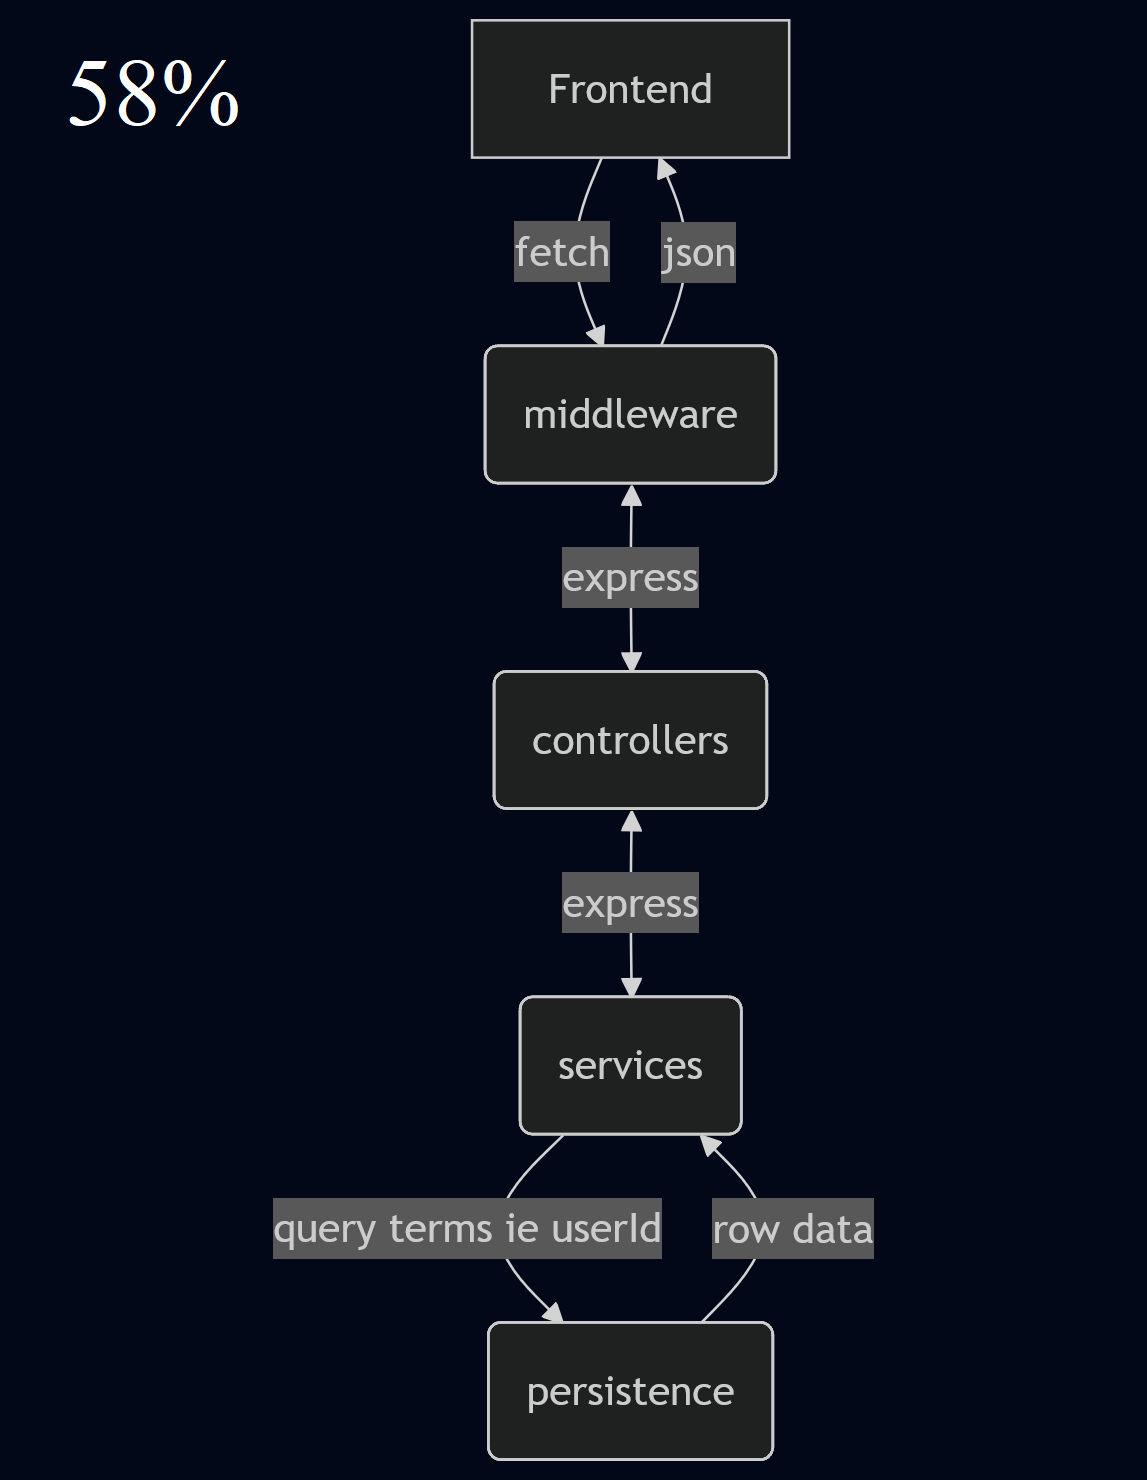
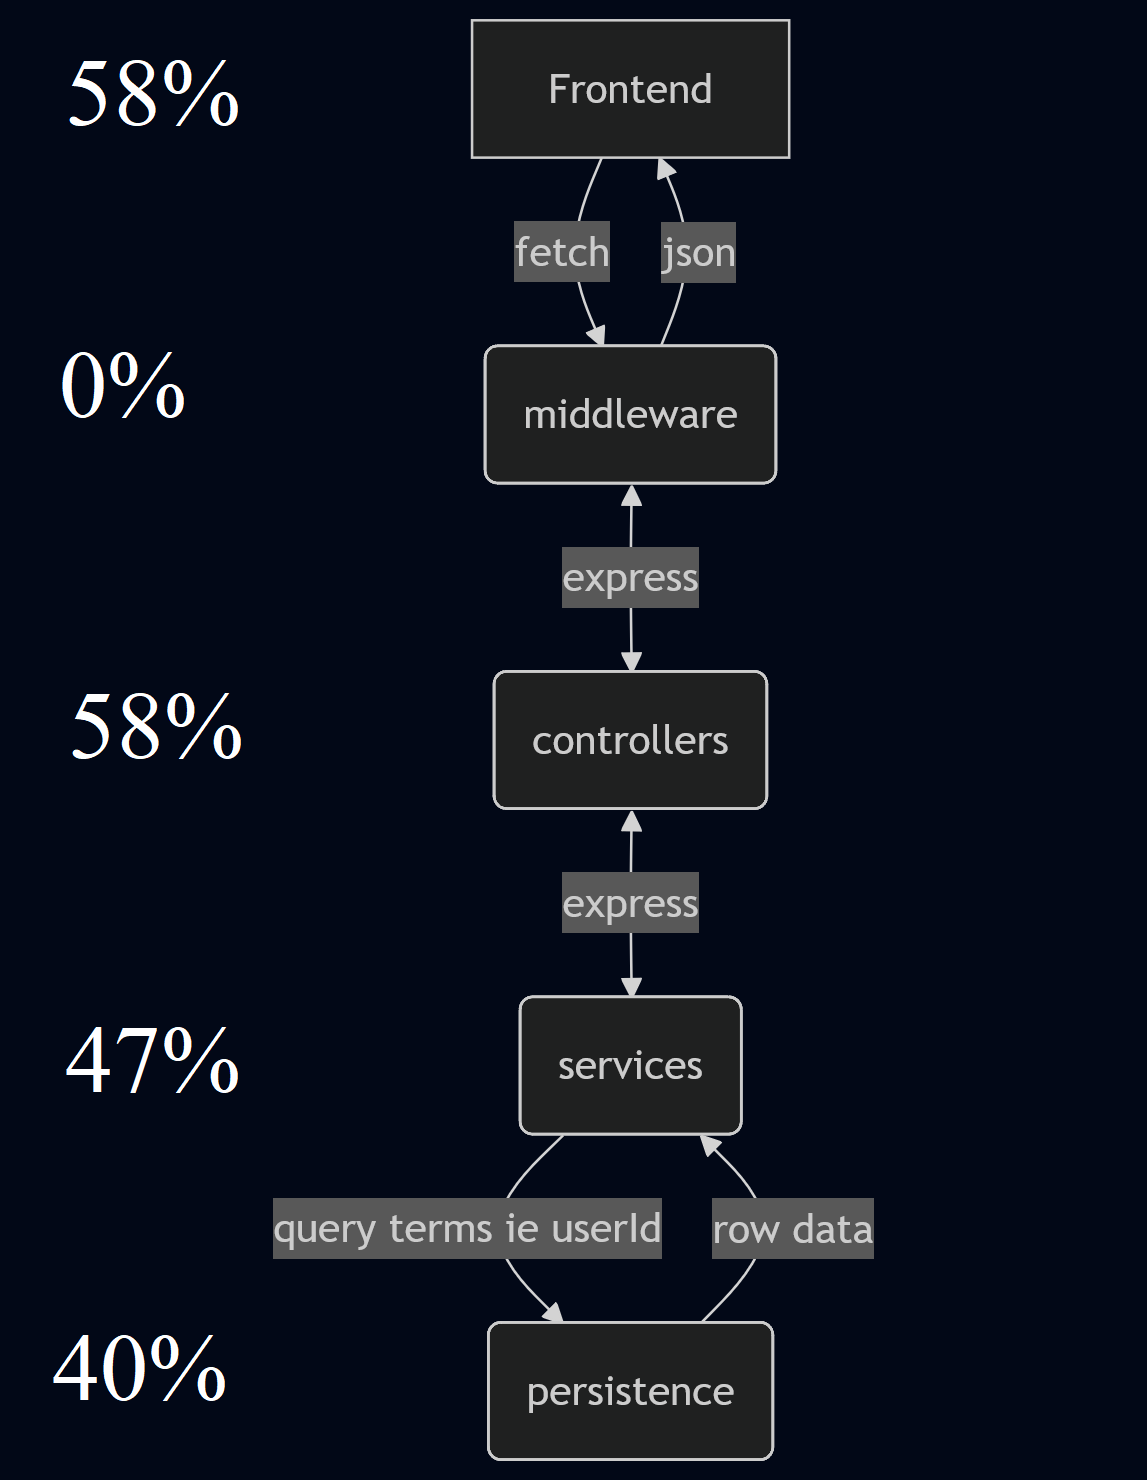
worksheet touchups

diff --git a/Sprint 2/sprint2.md b/Sprint 2/sprint2.md
@@ -17,6 +17,7 @@ If running in root make sure the front and backend are booted up since the accep
 Our testing plan has remained largely the same, with a few changes:
 
 Mainly we have less coverage on the frontend pages due to how rapidly the development has outpaced testing due to the time constaints of this sprint.
+Otherwise the testing plan has remained the same, unit, integration, and acceptance tests are going to be updated to match the current version of the project at the beginning of sprint 3.
 
 ---
 
@@ -26,7 +27,9 @@ A system architecrure document is present in the backend of our project: [Server
 
 We will go over the coverage of each layer here.
 
-![alt text](<system diagram.png>)
+![alt text](<system diagram.png>)e
+
+The overall average of the project is 41% that is quite a bit lower than at the beginning of this sprint. A major reason for this decrease is due to the integration tests not working. The middleware layer only serves to help other layers do their authentication and is tested relative to other layers. Also the end to end & acceptance tests do not print out a coverage test because the tests actually click through the application as it is rendered.
 
 ---
 
